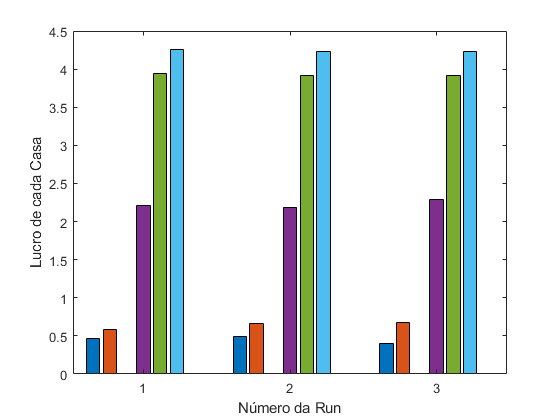
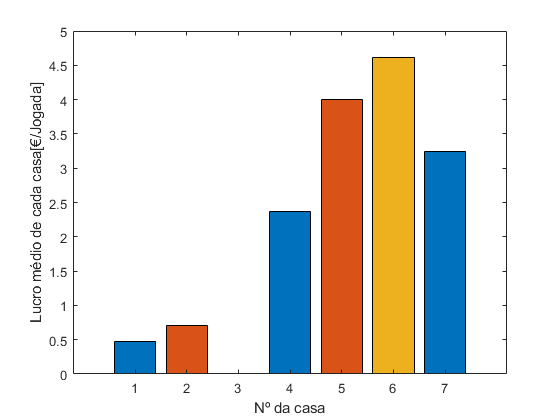
Compact zfreq and color of graphics, removed some commentaries,etc...

diff --git a/Lab_2/P1.m b/Lab_2/P1.m
@@ -1,23 +1,22 @@
 close all;
-Njogadas=1010;
-NMC=2; %Número de runs
-Ndiscard=1;
+Njogadas=20;
+NMC=3; %Número de runs
+Ndiscard=0;
 Ncasas=7;
 z = zeros(NMC,Ncasas); %número de estados do jogo, que indica o número de vezes que se caiu em cada casa
 y = zeros(1,Njogadas); % dimensão igual ao número de jogadas em cada run de Monte Carlo, que indica as casas em que se caiu em cada jogada
 Aluguer = [10,10,0,15,20,25,35];
 estados = [2,3,4,5,6,3,1;
            3,4,5,6,3,7,2]; %representação da máquina de estados a posição estados(1,1) representa a casa onde se vai para caso estejamos na casa 1 e calhe cara
-Lucro_av = zeros(NMC,Ncasas);
+Lucro_av = zeros(1,Ncasas);
 coinflips = zeros(1,Njogadas);
-
+zfreq = zeros(1,Ncasas);
 rand('state',0)
 espera = 0;
 hh = waitbar(espera,"Doing stuff");
 
 for i=1:1:NMC
     x = 0; %variável escalar que indica o número do estado em que a marca do jogador está em cada instante;
-    %z(i,x) = z(i,x)+1; %Começar no 1 conta para a freq? y(i,1) tem que ser 1?
     espera = espera + 1/NMC;
     waitbar(espera,hh,"Doing stuff");
     for k=1:1:Njogadas+1 % a inicial n conta para o nº de jogadas         
@@ -33,9 +32,6 @@ for i=1:1:NMC
             z(i,x) = z(i,x)+1;
         end
     end 
-    for k=1:1:Ncasas
-        Lucro_av(i,k) = Aluguer(k) * z(i,k)/(Njogadas-Ndiscard);
-    end 
     figure(i*10)
     plot(1:1:Njogadas+1, y, 'o')
     xlabel('Nº da Jogada')
@@ -46,14 +42,22 @@ for i=1:1:NMC
     ylabel('Resultado da moeda')
     
 end
-zfreq = z / (Njogadas-Ndiscard);
-
+for i=1:1:Ncasas
+    zfreq(i) = sum(z(:,i))/((Njogadas-Ndiscard)*NMC);
+    Lucro_av(i) = Aluguer(i) * zfreq(i);
+end
 figure(1)
-bar(1:7, zfreq(1,:))
+b = bar(1:7, zfreq(1,:),'FaceColor','flat');
 xlabel('Nº da casa')
 ylabel('Probabilidade de calhar cada casa')
+b.CData(1:3,:)=[0, 0.4470 ,0.7410 ;0.8500, 0.3250, 0.0980;0.9290, 0.6940, 0.1250];
+b.CData(4:6,:)=[0, 0.4470 ,0.7410 ;0.8500, 0.3250, 0.0980;0.9290, 0.6940, 0.1250];
+
 figure(2)
-bar(1:7, Lucro_av(1,:))
+b1 = bar(1:7, Lucro_av(1,:),'FaceColor','flat');
 xlabel('Nº da casa')
 ylabel('Lucro médio de cada casa[€/Jogada]')
+
+b1.CData(1:3,:)=[0, 0.4470 ,0.7410 ;0.8500, 0.3250, 0.0980;0.9290, 0.6940, 0.1250];
+b1.CData(4:6,:)=[0, 0.4470 ,0.7410 ;0.8500, 0.3250, 0.0980;0.9290, 0.6940, 0.1250];
 close(hh)

diff --git a/Lab_2/P3.m b/Lab_2/P3.m
@@ -14,7 +14,6 @@ hh = waitbar(espera,"Doing stuff");
 
 for i=1:1:NMC
     x = 0; %variável escalar que indica o número do estado em que a marca do jogador está em cada instante;
-    %z(i,x) = z(i,x)+1; %Começar no 1 conta para a freq? y(i,1) tem que ser 1?
     espera = espera + 1/NMC;
     waitbar(espera,hh,"Doing stuff");
     for k=1:1:Njogadas         
